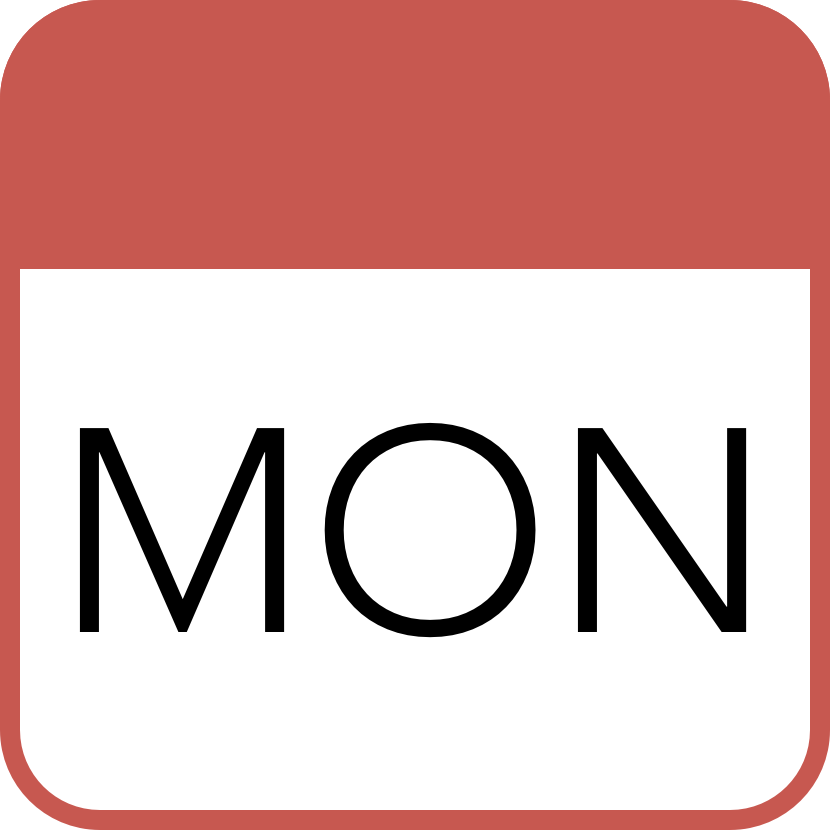
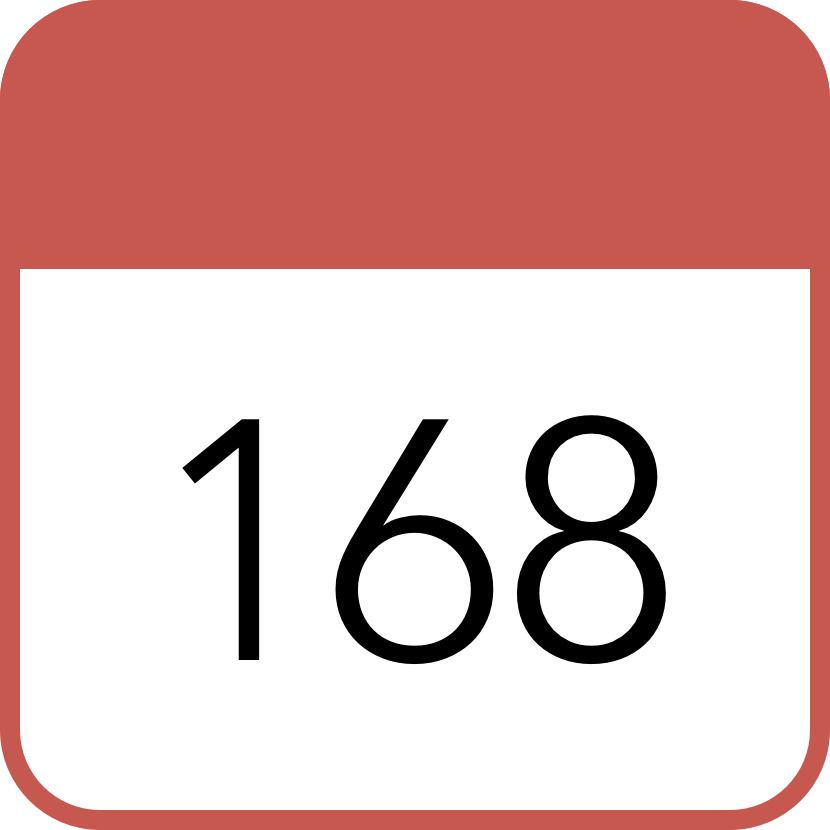
Changed the name of the project.

Changed region(s): [[0.3916, 0.4819, 0.9036, 0.8133], [0.0904, 0.4819, 0.3614, 0.8133]]

diff --git a/README.md b/README.md
@@ -1,7 +1,7 @@
-<h1>Mon</h1>
-<p>Mon is a open source scheduling rails app created by Miguel Rust. Mon remembers your most important events so you dont have to.
+<h1>168</h1>
+<p>168 is a open source scheduling rails app created by Miguel Rust. 168 is a scheduling application that helps you allocate the 168 hours that you have in a week!
 </p>
 
-<h3>Making Modifications and Redistributing Mon</h3>
+<h3>Making Modifications and Redistributing 168</h3>
 
-<p>You may make all modifications to Mon as you would like. You may also redistribute Mon and use it for commercial purposes.</p> 
+<p>You may make all modifications to Mon as you would like. You may also redistribute 168 and use it for commercial purposes.</p> 
